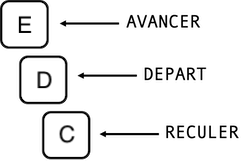
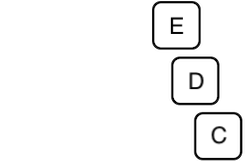
changes

diff --git a/experiment.js b/experiment.js
@@ -136,55 +136,55 @@ var showing_cursor = {
 // Preload faces
   var faces = [
       "stimuli/Fr_3.png",
-      "stimuli/Fr_8.png",
-      "stimuli/Fr_10.png",
       "stimuli/Fr_14.png",
-      "stimuli/Fr_25.png",
-      "stimuli/Fr_27.png",
-      "stimuli/Fr_32.png",
-      "stimuli/Fr_38.png",
+      "stimuli/Fr_18.png",
       "stimuli/Fr_43.png",
-      "stimuli/Fr_49.png",
-      "stimuli/Fr_52.png",
-      "stimuli/Fr_55.png",
+      "stimuli/Fr_44.png",
+      "stimuli/Fr_45.png",
+      "stimuli/Fr_54.png",
       "stimuli/Fr_76.png",
       "stimuli/Fr_82.png",
-      "stimuli/Fr_85.png",
+      "stimuli/Fr_83.png",
       "stimuli/Fr_86.png",
-      "stimuli/Fr_87.png",
+      "stimuli/Fr_88.png",
+      "stimuli/Fr_92.png",
       "stimuli/Fr_95.png",
+      "stimuli/Fr_100.png",
+      "stimuli/Fr_103.png",
       "stimuli/Fr_104.png",
+      "stimuli/Fr_105.png",
       "stimuli/Fr_106.png",
       "stimuli/Fr_108.png",
+      "stimuli/Fr_112.png",
       "stimuli/Fr_115.png",
-      "stimuli/Fr_132.png",
+      "stimuli/Fr_117.png",
+      "stimuli/Fr_140.png",
       "stimuli/Fr_142.png",
-      "stimuli/Fr_151.png",
       "stimuli/Mg_1.png",
       "stimuli/Mg_2.png",
       "stimuli/Mg_7.png",
       "stimuli/Mg_11.png",
       "stimuli/Mg_12.png",
       "stimuli/Mg_22.png",
-      "stimuli/Mg_23.png",
-      "stimuli/Mg_33.png",
       "stimuli/Mg_48.png",
       "stimuli/Mg_51.png",
-      "stimuli/Mg_60.png",
+      "stimuli/Mg_58.png",
       "stimuli/Mg_63.png",
       "stimuli/Mg_64.png",
       "stimuli/Mg_67.png",
+      "stimuli/Mg_72.png",
       "stimuli/Mg_75.png",
       "stimuli/Mg_77.png",
       "stimuli/Mg_79.png",
       "stimuli/Mg_90.png",
+      "stimuli/Mg_93.png",
       "stimuli/Mg_107.png",
+      "stimuli/Mg_113.png",
       "stimuli/Mg_120.png",
-      "stimuli/Mg_130.png",
       "stimuli/Mg_137.png",
-      "stimuli/Mg_139.png",
       "stimuli/Mg_144.png",
-      "stimuli/Mg_145.png"
+      "stimuli/Mg_145.png",
+      "stimuli/Mg_146.png"
   ];
 
  preloadimages.push(faces);
@@ -202,15 +202,15 @@ switch(vaast_condition_approach) {
   case "approach_mg":
     movement_mg    = "approach";
     movement_fr    = "avoidance";
-    group_to_approach = "maghrébin";
-    group_to_avoid    = "caucasien";
+    group_to_approach = "MAGHREBINE";
+    group_to_avoid    = "BELGE";
     break;
 
   case "approach_fr":
     movement_mg    = "avoidance";
     movement_fr    = "approach";
-    group_to_approach = "caucasien";
-    group_to_avoid   = "maghrébin";
+    group_to_approach = "BELGE";
+    group_to_avoid   = "MAGHREBINE";
     break;
 }
 
@@ -224,50 +224,50 @@ var vaast_stim_training = [
   {movement: movement_mg, group: "mg", stimulus: 'stimuli/Mg_11.png'},
   {movement: movement_mg, group: "mg", stimulus: 'stimuli/Mg_12.png'},
   {movement: movement_mg, group: "mg", stimulus: 'stimuli/Mg_22.png'},
-  {movement: movement_mg, group: "mg", stimulus: 'stimuli/Mg_23.png'},
-  {movement: movement_mg, group: "mg", stimulus: 'stimuli/Mg_33.png'},
   {movement: movement_mg, group: "mg", stimulus: 'stimuli/Mg_48.png'},
   {movement: movement_mg, group: "mg", stimulus: 'stimuli/Mg_51.png'},
-  {movement: movement_mg, group: "mg", stimulus: 'stimuli/Mg_60.png'},
+  {movement: movement_mg, group: "mg", stimulus: 'stimuli/Mg_58.png'},
   {movement: movement_mg, group: "mg", stimulus: 'stimuli/Mg_63.png'},
   {movement: movement_mg, group: "mg", stimulus: 'stimuli/Mg_64.png'},
   {movement: movement_mg, group: "mg", stimulus: 'stimuli/Mg_67.png'},
+  {movement: movement_mg, group: "mg", stimulus: 'stimuli/Mg_72.png'},
   {movement: movement_mg, group: "mg", stimulus: 'stimuli/Mg_75.png'},
   {movement: movement_mg, group: "mg", stimulus: 'stimuli/Mg_77.png'},
   {movement: movement_mg, group: "mg", stimulus: 'stimuli/Mg_79.png'},
   {movement: movement_mg, group: "mg", stimulus: 'stimuli/Mg_90.png'},
+  {movement: movement_mg, group: "mg", stimulus: 'stimuli/Mg_93.png'},
   {movement: movement_mg, group: "mg", stimulus: 'stimuli/Mg_107.png'},
+  {movement: movement_mg, group: "mg", stimulus: 'stimuli/Mg_113.png'},
   {movement: movement_mg, group: "mg", stimulus: 'stimuli/Mg_120.png'},
-  {movement: movement_mg, group: "mg", stimulus: 'stimuli/Mg_130.png'},
   {movement: movement_mg, group: "mg", stimulus: 'stimuli/Mg_137.png'},
-  {movement: movement_mg, group: "mg", stimulus: 'stimuli/Mg_139.png'},
   {movement: movement_mg, group: "mg", stimulus: 'stimuli/Mg_144.png'},
   {movement: movement_mg, group: "mg", stimulus: 'stimuli/Mg_145.png'},
+  {movement: movement_mg, group: "mg", stimulus: 'stimuli/Mg_146.png'},
   {movement: movement_fr,  group: "fr",  stimulus: 'stimuli/Fr_3.png'},
-  {movement: movement_fr,  group: "fr",  stimulus: 'stimuli/Fr_8.png'},
-  {movement: movement_fr,  group: "fr",  stimulus: 'stimuli/Fr_10.png'},
   {movement: movement_fr,  group: "fr",  stimulus: 'stimuli/Fr_14.png'},
-  {movement: movement_fr,  group: "fr",  stimulus: 'stimuli/Fr_25.png'},
-  {movement: movement_fr,  group: "fr",  stimulus: 'stimuli/Fr_27.png'},
-  {movement: movement_fr,  group: "fr",  stimulus: 'stimuli/Fr_32.png'},
-  {movement: movement_fr,  group: "fr",  stimulus: 'stimuli/Fr_38.png'},
+  {movement: movement_fr,  group: "fr",  stimulus: 'stimuli/Fr_18.png'},
   {movement: movement_fr,  group: "fr",  stimulus: 'stimuli/Fr_43.png'},
-  {movement: movement_fr,  group: "fr",  stimulus: 'stimuli/Fr_49.png'},
-  {movement: movement_fr,  group: "fr",  stimulus: 'stimuli/Fr_52.png'},
-  {movement: movement_fr,  group: "fr",  stimulus: 'stimuli/Fr_55.png'},
+  {movement: movement_fr,  group: "fr",  stimulus: 'stimuli/Fr_44.png'},
+  {movement: movement_fr,  group: "fr",  stimulus: 'stimuli/Fr_45.png'},
+  {movement: movement_fr,  group: "fr",  stimulus: 'stimuli/Fr_54.png'},
   {movement: movement_fr,  group: "fr",  stimulus: 'stimuli/Fr_76.png'},
   {movement: movement_fr,  group: "fr",  stimulus: 'stimuli/Fr_82.png'},
-  {movement: movement_fr,  group: "fr",  stimulus: 'stimuli/Fr_85.png'},
+  {movement: movement_fr,  group: "fr",  stimulus: 'stimuli/Fr_83.png'},
   {movement: movement_fr,  group: "fr",  stimulus: 'stimuli/Fr_86.png'},
-  {movement: movement_fr,  group: "fr",  stimulus: 'stimuli/Fr_87.png'},
+  {movement: movement_fr,  group: "fr",  stimulus: 'stimuli/Fr_88.png'},
+  {movement: movement_fr,  group: "fr",  stimulus: 'stimuli/Fr_92.png'},
   {movement: movement_fr,  group: "fr",  stimulus: 'stimuli/Fr_95.png'},
+  {movement: movement_fr,  group: "fr",  stimulus: 'stimuli/Fr_100.png'},
+  {movement: movement_fr,  group: "fr",  stimulus: 'stimuli/Fr_103.png'},
   {movement: movement_fr,  group: "fr",  stimulus: 'stimuli/Fr_104.png'},
+  {movement: movement_fr,  group: "fr",  stimulus: 'stimuli/Fr_105.png'},
   {movement: movement_fr,  group: "fr",  stimulus: 'stimuli/Fr_106.png'},
   {movement: movement_fr,  group: "fr",  stimulus: 'stimuli/Fr_108.png'},
+  {movement: movement_fr,  group: "fr",  stimulus: 'stimuli/Fr_112.png'},
   {movement: movement_fr,  group: "fr",  stimulus: 'stimuli/Fr_115.png'},
-  {movement: movement_fr,  group: "fr",  stimulus: 'stimuli/Fr_132.png'},
-  {movement: movement_fr,  group: "fr",  stimulus: 'stimuli/Fr_142.png'},
-  {movement: movement_fr,  group: "fr",  stimulus: 'stimuli/Fr_151.png'}
+  {movement: movement_fr,  group: "fr",  stimulus: 'stimuli/Fr_117.png'},
+  {movement: movement_fr,  group: "fr",  stimulus: 'stimuli/Fr_140.png'},
+  {movement: movement_fr,  group: "fr",  stimulus: 'stimuli/Fr_142.png'}
 ]
 
 // vaast background images --------------------------------------------------------------,
@@ -424,10 +424,10 @@ var fullscreen_trial = {
 var Gene_Instr = {
   type: "html-keyboard-response",
   stimulus:
-    "<h1 class ='custom-title'>Etude sur la catégorisation de visages</h1>" +
+    "<h1 class ='custom-title'>Etude sur la catégorisation</h1>" +
     "<br>" +
     "<p class='instructions'> Dans cette étude, nous nous intéressons à la manière " +
-    "dont nous catégorisons autrui à partir de son visage. </p>" +
+    "dont nous catégorisons autrui. </p>" +
    "<p class='instructions'>Vous devrez effectuer trois tâches de catégorisation : " +
     "<br>" +
     "- La tâche du Jeu Vidéo (environ 15-20 min)" + 
@@ -447,8 +447,7 @@ var vaast_instructions_1 = {
   stimulus:
     "<h1 class ='custom-title'>Tâche 1 : Tâche du Jeu Vidéo</h1>" +
     "<p class='instructions'>Dans cette tâche, un peu comme dans un jeu vidéo, vous " +
-    "serez dans un environnement dans lequel vous pourrez avancer ou reculer." +
-   "<p class='instructions'> L'environnement dans lequel vous pourrez vous déplacer est présenté ci-dessous.</p>" +
+    "vous trouverez dans l'environnement présenté ci-dessous.</p>" +
     "<br>" +
     "<img src = 'media/vaast-background.png'>" +
     "<br>" +
@@ -463,7 +462,7 @@ var vaast_instructions_2 = {
   stimulus:
     "<h1 class ='custom-title'>Tâche 1 : Tâche du Jeu Vidéo</h1>" +
     "<p class='instructions'>Une série de visages va apparaître dans l'environnement. " +
-    "Votre tâche sera de catégoriser ces visages (en avançant ou en reculant) aussi vite que possible. <br> <br>" +
+    "Votre tâche sera de catégoriser ces visages aussi vite que possible. <br> <br>" +
     "Plus précisément, vous devrez <b>catégoriser ces visages sur la base de leur origine ethnique (typiquement belge vs. typiquement maghrébine).</b> " +
     "Des instructions plus spécifiques vont suivre.</p>" +
     "<br>" +
@@ -478,7 +477,7 @@ var vaast_instructions_2_bis_vaast = {
   type: "html-keyboard-response",
   stimulus:
     "<h1 class ='custom-title'>Tâche 1 : Tâche du Jeu Vidéo</h1>" +
-    "<p class='instructions'>Pour avancer ou reculer, vous devrez utiliser les touches suivantes de votre clavier :" +
+    "<p class='instructions'>Pour catégoriser les visages, vous devrez utiliser les touches suivantes de votre clavier :" +
     "<br>" +
     "<br>" +
     "<img src = 'media/touches_Fr.png'>" +
@@ -497,8 +496,8 @@ var vaast_instructions_3 = {
     "<p class='instructions'>Au début de chaque essai, vous verrez le symbole 'O'. " +
     "Ce symbole indique que vous devez appuyer sur la touche <b>DEPART</b> (la <b>touche D</b>) pour commencer l'essai. </p>" +
     "<p class='instructions'>Vous allez alors voir apparaître au centre de l'écran une croix de fixation (+), suivie d'un visage. </p>" +
-    "<p class='instructions'>En fonction de l'origine ethnique de ce visage, votre tâche sera d'avancer ou de reculer en appuyant <b>trois fois</b>, aussi vite que possible, " +
-    "sur la touche <b>AVANCER</b> (la <b>touche E</b>) ou sur la touche <b>RECULER</b> (la <b>touche C</b>). Après ces trois appuis, le visage disparaîtra et vous devrez "+
+    "<p class='instructions'>Votre tâche sera de catégoriser ce visage en fonction de son origine ethnique en appuyant <b>trois fois</b>, aussi vite que possible, " +
+    "sur la <b>touche E</b> ou sur la <b>touche C</b>. Après ces trois appuis, le visage disparaîtra et vous devrez "+
     "appuyer de nouveau sur la touche DEPART (la touche D). " +
     "<p class='instructions'>Merci d'utiliser uniquement l'index de votre main dominante pour toutes ces actions. </p>" +
     "<br>" +
@@ -514,14 +513,8 @@ var vaast_instructions_4 = {
     "<p class='instructions'>Plus spécifiquement, vous devez : " +
     "<ul class='instructions'>" +
     "<li>" +
-    "<strong>ALLER VERS les visages appartenant au groupe des " + group_to_approach + "</strong></li>" +
-    "<strong>en appuyant sur la touche AVANCER (touche E) </strong>" +
-    "</li>" +
-    "<p class='instructions'> </p>" +
-    "<li>" + 
-    "<strong>VOUS ELOIGNER des visages appartenant au groupe des " + group_to_avoid + "</strong></li>" +
-    "<strong>en appuyant sur la touche RECULER (touche C)</strong>" +
-    "</li>" + 
+    "<strong>Appuyez sur la TOUCHE E pour les visages d'origine " + group_to_approach + "</strong></li>" +
+    "<li><strong>Appuyez sur la TOUCHE C pour les visages d'origine " + group_to_avoid + "</strong></li>" +
     "</ul>" +
     "<p class='instructions'>Merci de lire attentivement et de mémoriser ces instructions. </p>" +
     "<p class='instructions'><strong>Aussi, notez qu'il est EXTREMEMENT IMPORTANT d'essayer de répondre le plus rapidement et le plus exactement possible. </strong>" +
@@ -530,6 +523,18 @@ var vaast_instructions_4 = {
     "<p class = 'continue-instructions'>Appuyez sur <strong>entrée</strong> pour" +
     " continuer.</p>",
   choices: [13]
+};
+
+var vaast_break = {
+  type: "html-keyboard-response",
+  stimulus:
+    "Vous venez d'effectuer la moitié de la tâche du Jeu Vidéo (Tâche 1) ! N'hésitez pas à prendre 2-3 min de pause avant de continuer la tâche. " +
+    "Les instructions restent identiques. " +
+    "<br>" +
+    "<br>" +
+    "<p class = 'continue-instructions'>Appuyez sur <strong>espace</strong> pour" +
+    " continuer.</p>",
+  choices: [32]
 };
 
 var vaast_instructions_end = {
@@ -713,6 +718,8 @@ timeline.push(save_id);
                   vaast_instructions_2_bis_vaast,
                   vaast_instructions_3, 
                   vaast_instructions_4,
+                  vaast_training_block,
+                  vaast_break,
                   vaast_training_block,
                   vaast_instructions_end);
 
